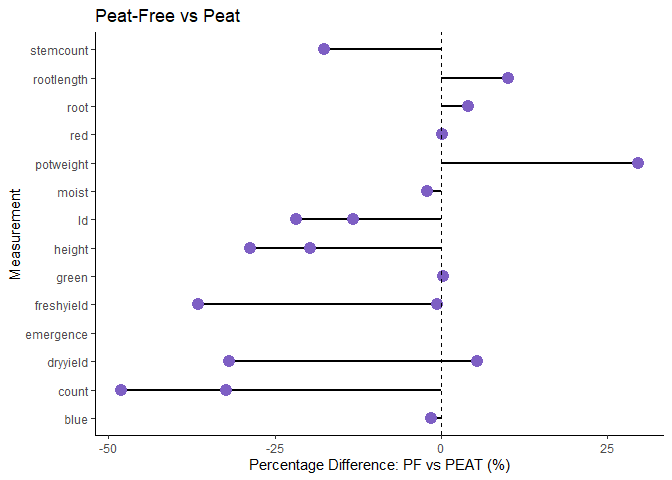
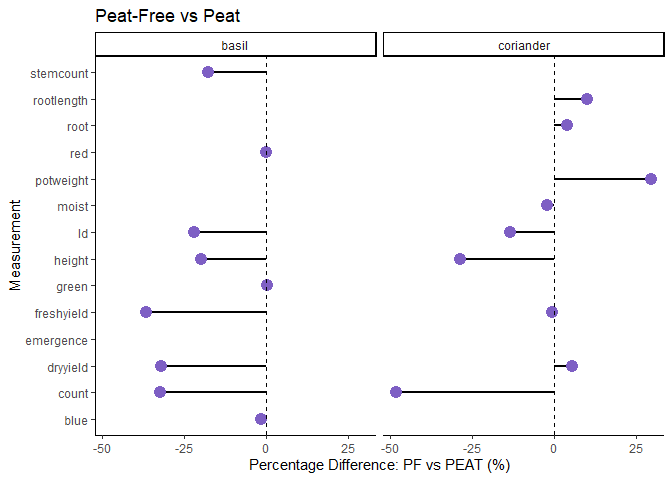
various changes to markdown

diff --git a/projects/phd_data_rstudio.md b/projects/phd_data_rstudio.md
@@ -1,4 +1,4 @@
-phd_data_rstudio
+Peat vs Peat-Free substrates
 ================
 HGF
 2024-11-12
@@ -16,7 +16,7 @@ That was a mistake.
 I’m now having a look at my old data to try and observe some broad
 themes for the project.
 
-# libraries
+### libraries
 
 ``` r
 library(ggplot2)
@@ -27,10 +27,10 @@ library(tidyr)
 library(tidyverse)
 ```
 
-# import files
+### import files
 
-I have two file types to work with, one being catagorical for
-assessments, the other being a continous dataset.
+I have two file types to work with, one being categorical for
+assessments, the other being a continuous dataset.
 
 ``` r
 df<-read_excel("2021cont.xlsx")
@@ -42,50 +42,11 @@ df_cat<-read_excel("2021cat.xlsx")
 It’s been a few years since i’ve taken a look at this data, so lets have
 a quick peek and see whats going on.
 
-### N counts for each observation
-
 Due to the way I laid out this data, I strongly suspect there will be
 some missing values. I’ll also see how many observations I had per
 treatment & experiment/trial. I’m doing this because the replicate
 number is missing from this data - i’ll blame my past self for this
 later.
-
-``` r
-summary(df)
-```
-
-    ##      exp              trtlong              crop               sub           
-    ##  Length:14399       Length:14399       Length:14399       Length:14399      
-    ##  Class :character   Class :character   Class :character   Class :character  
-    ##  Mode  :character   Mode  :character   Mode  :character   Mode  :character  
-    ##                                                                             
-    ##                                                                             
-    ##                                                                             
-    ##                                                                             
-    ##     amend           amendall           amf               comprate     
-    ##  Length:14399       Mode:logical   Length:14399       Min.   :0.0000  
-    ##  Class :character   NA's:14399     Class :character   1st Qu.:0.0000  
-    ##  Mode  :character                  Mode  :character   Median :0.0000  
-    ##                                                       Mean   :0.2974  
-    ##                                                       3rd Qu.:0.5000  
-    ##                                                       Max.   :2.0000  
-    ##                                                                       
-    ##       rb                 day          daycode              meau          
-    ##  Length:14399       Min.   : 0.00   Length:14399       Length:14399      
-    ##  Class :character   1st Qu.:14.00   Class :character   Class :character  
-    ##  Mode  :character   Median :21.00   Mode  :character   Mode  :character  
-    ##                     Mean   :21.84                                        
-    ##                     3rd Qu.:32.00                                        
-    ##                     Max.   :50.00                                        
-    ##                                                                          
-    ##      value            daynew       comprate2     
-    ##  Min.   :  0.00   Min.   :  0.00   Mode:logical  
-    ##  1st Qu.:  3.00   1st Qu.:  7.00   NA's:14399    
-    ##  Median :  7.00   Median : 21.00                 
-    ##  Mean   : 12.87   Mean   : 33.74                 
-    ##  3rd Qu.: 13.00   3rd Qu.: 32.00                 
-    ##  Max.   :187.00   Max.   :100.00                 
-    ##  NA's   :1076     NA's   :7715
 
 ``` r
 na_counts <- sapply(df, function(x) sum(is.na(x)))
@@ -100,28 +61,25 @@ print(na_counts)
 ``` r
 combo_counts <- df %>%
   count(exp, trtlong, meau, sub)
-
-print(combo_counts)
+head(combo_counts)
 ```
 
-    ## # A tibble: 548 × 5
-    ##    exp   trtlong       meau       sub       n
-    ##    <chr> <chr>         <chr>      <chr> <int>
-    ##  1 e10   0.5comp PF    count      pf        6
-    ##  2 e10   0.5comp PF    dryyield   pf        6
-    ##  3 e10   0.5comp PF    freshyield pf        6
-    ##  4 e10   0.5comp PF    height     pf       30
-    ##  5 e10   0.5comp Peat  count      peat      6
-    ##  6 e10   0.5comp Peat  dryyield   peat      6
-    ##  7 e10   0.5comp Peat  freshyield peat      6
-    ##  8 e10   0.5comp Peat  height     peat     30
-    ##  9 e10   0.5compamf PF count      pf        6
-    ## 10 e10   0.5compamf PF dryyield   pf        6
-    ## # ℹ 538 more rows
+    ## # A tibble: 6 × 5
+    ##   exp   trtlong      meau       sub       n
+    ##   <chr> <chr>        <chr>      <chr> <int>
+    ## 1 e10   0.5comp PF   count      pf        6
+    ## 2 e10   0.5comp PF   dryyield   pf        6
+    ## 3 e10   0.5comp PF   freshyield pf        6
+    ## 4 e10   0.5comp PF   height     pf       30
+    ## 5 e10   0.5comp Peat count      peat      6
+    ## 6 e10   0.5comp Peat dryyield   peat      6
 
 As there are quite a few NA counts, mostly due to the data layout.
 Rather than mutating it right away, i’d like to see if I can filter it
 down to see some trends.
+
+The counts for each trt_long & meau is also quite useful, it’s telling
+me how many observations I have per assessment (such as count etc.).
 
 First thing i’ll do is check out some of the unique values in certain
 cols. I split each observation type into a col called ‘meau’ (read:
@@ -233,7 +191,14 @@ Here i’ve added error bars and a mean value for each bar.
 Now we’ve had a look at height at 32 days, lets have a quick look at the
 other observations in ‘meau’
 
-# Values within the treatments
+# Observations
+
+Lets have a look at some of the other observations and see if we can
+spot any trends.
+
+I’m going to use a lollipop style graph here with a vline/abline set at
+0, this is because i’ll want to compare the % change of peat vs
+peat-free later.
 
 ``` r
 # filtering and summing
@@ -254,10 +219,13 @@ ggplot(df_sum, aes(x = mean_val, y = meau)) +
 
 ![](phd_data_rstudio_files/figure-gfm/unnamed-chunk-7-1.png)<!-- -->
 
-\# lets get some interesting differences
+Now lets see if we can refine those differences to get some clarity,
+first thing we can do is normalize the data by putting it on a % scale,
+and subtracting the values for each measurement based on ‘peat-free -
+peat’,
 
 ``` r
-# calculating the means and dropping phygen (phygen is damage to leaves usualy from p&d, very little recorded so is being dropped)
+# calculating the means and dropping phygen (phygen is damage to leaves usual from p&d, very little recorded so is being dropped)
 
 df_sum <- df %>%
   filter(sub == "peat" | sub == "pf", meau != "phygen") %>%
@@ -268,9 +236,7 @@ df_sum <- df %>%
 
 df_spread <- df_sum %>%
   pivot_wider(names_from = sub, values_from = mean_val) %>%
-  mutate(
-    pct_diff = (pf - peat) / peat * 100 
-  )
+  mutate(pct_diff = (pf - peat) / peat * 100 )
 
 
 #head(df_spread)
@@ -281,96 +247,77 @@ ggplot(df_spread, aes(x = pct_diff, y = meau)) +
   theme_classic() +
   geom_vline(xintercept = 0, linetype = "dashed") +  
   labs(x = "Percentage Difference: PF vs PEAT (%)", y = "Measurement") + 
-  ggtitle("Peat-Free vs Peat")
+  ggtitle("Peat-Free vs Peat")+
+  facet_wrap(vars(crop))  
 ```
 
 ![](phd_data_rstudio_files/figure-gfm/unnamed-chunk-8-1.png)<!-- -->
 
-``` r
-  facet_wrap(vars(crop))  
-```
-
-    ## <ggproto object: Class FacetWrap, Facet, gg>
-    ##     compute_layout: function
-    ##     draw_back: function
-    ##     draw_front: function
-    ##     draw_labels: function
-    ##     draw_panels: function
-    ##     finish_data: function
-    ##     init_scales: function
-    ##     map_data: function
-    ##     params: list
-    ##     setup_data: function
-    ##     setup_params: function
-    ##     shrink: TRUE
-    ##     train_scales: function
-    ##     vars: function
-    ##     super:  <ggproto object: Class FacetWrap, Facet, gg>
-
 This graph is showing us the % difference for each measurement between
 peat and peat-free. As we can see, generally peat-free is performing
-poorly in most measurements, except for a rather intersting case in dry
-yield and rootlength.
+poorly in most measurements, except for a rather interesting case in dry
+yield and root length in Coriander. Generally the peat substrate
+outperforms the peat-free in basil, but this story is a bit more complex
+with Coriander.
 
-## Old data
+Next we’re going to look at the treatment side of the project. This was
+to see if the addition of microbial amendments (like fungi, in this case
+*Mychorriza*) could enchance the growth in peat-free substrates.
 
-# Pivoting the dataset
+## Treatments
 
-Building two col values for the substrate types ‘Peat’ & ‘pf’
-
-``` r
-df_wide <- df %>%
-    pivot_wider(
-        names_from = sub,
-        values_from = value,
-        values_fn = list(value = mean)  # Replace `mean` with another function if needed
-    )
-```
+Lets start by filtering for our required parameters, peat-free (‘pf’)
+and if it has amf or not.
 
 ``` r
-df_long <- df_cat %>%
-    pivot_longer(
-        cols = c(
-            height,
-            count, 
-            freshyield,
-            dryyield, 
-            ld, 
-            rootlength,
-            potweight,
-            moist,
-            stemcount,
-            phygen, 
-            red, 
-            green,
-            blue
-        ),
-        names_to = "sub2",          # Corrected placement of `names_to`
-        values_to = "value"         # Corrected placement of `values_to`
-    )
+df_pf_amf <- df %>%
+  filter(sub == "pf", amf == "none" | amf== "amf") %>%
+  group_by(meau, crop, amf) %>%
+  summarise(mean_val = mean(value, na.rm = TRUE), .groups = "drop")
+
+
+ggplot(df_pf_amf, aes(x = amf, y = mean_val, fill = amf)) +
+  geom_bar(stat = "identity", position = "dodge") +  
+  scale_fill_manual(values = c("none" = "#6B873D", "amf" = "#068745")) +  
+  labs(x = "AMF Treatment", y = "Mean Value", fill = "AMF") +
+  ggtitle("Impact of AMF on PF Treatment Values") +
+  facet_wrap(vars(crop, meau), scales = 'free') + 
+  theme_classic()
 ```
 
-# Generating a % difference between substrate types
+![](phd_data_rstudio_files/figure-gfm/unnamed-chunk-9-1.png)<!-- -->
+This looks a bit busy for my liking, lets bring in our previous code for
+our lolipops and get the % difference between amf treatments and
+controls (i.e. none).
 
 ``` r
-df_long <- df_cat %>%
-    rename(meau_original = meau) %>%  
-    pivot_longer(
-        cols = c(height, count, freshyield, dryyield, ld, rootlength, potweight,
-                 moist, stemcount, phygen, red, green, blue),
-        names_to = "meau",           
-        values_to = "value"         
-    ) %>%
-    pivot_wider(
-        names_from = sub,            
-        values_from = value,         
-        values_fn = list(value = mean)  
-    )
+df2<-df%>%filter(!meau %in% c("blue", "green", "red", "moist", "phygen", "potweight", "root", "rootlength", "stemcount"))
 
-df_long2 <- df_long %>%
-    mutate(diff_pf_peat = peat - pf)  
+df_pf_amf <- df2 %>%
+  filter(sub == "pf") %>%
+  group_by(meau, crop, amf) %>%
+  summarise(mean_val = mean(value, na.rm = TRUE), .groups = "drop")
 
 
-new_diff<- df_long2%>%
-        group_by(meau,crop,)
+df_diff <- df_pf_amf %>%
+  pivot_wider(names_from = amf, values_from = mean_val) %>%
+  mutate(diff = (amf - none) /none *100)  # Calculate the difference
+
+
+
+ggplot(df_diff, aes(x = diff, y = meau)) +
+  geom_segment(aes(x = 0, y = meau, xend = diff, yend = meau), size = 1) + 
+  geom_point(color = "#7e5fc4", size = 4) +
+  theme_classic() +
+  geom_vline(xintercept = 0, linetype = "dashed") +  
+  labs(x = "Percentage Difference: control vs amf", y = "Measurement") + 
+  ggtitle("Control vs AMF")+
+  facet_wrap(vars(crop)) 
 ```
+
+![](phd_data_rstudio_files/figure-gfm/unnamed-chunk-10-1.png)<!-- -->
+That looks much better, now we can see that the impact of treating
+peat-free substrate with AMF greatly increases several growth
+charcterstics in Coriander, just not basil.
+
+I doubt it’s over 100% though!
